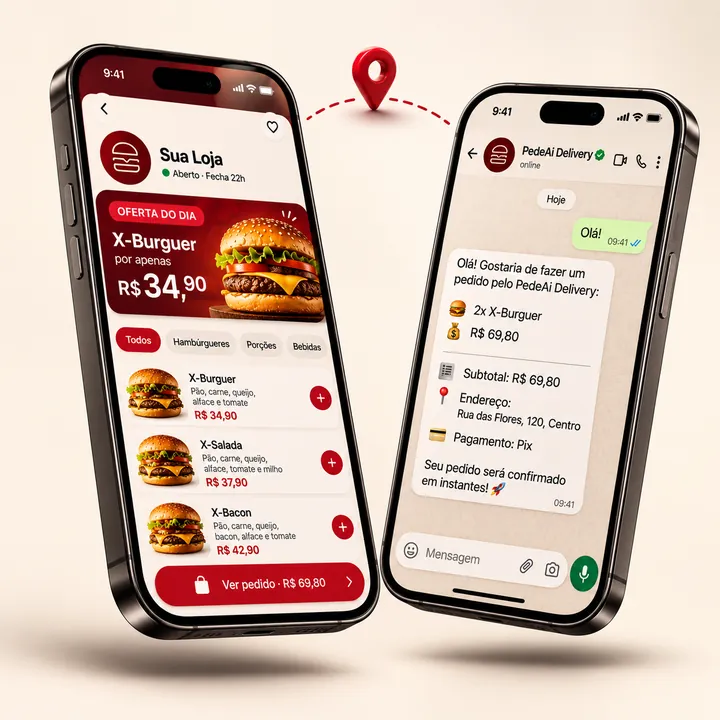
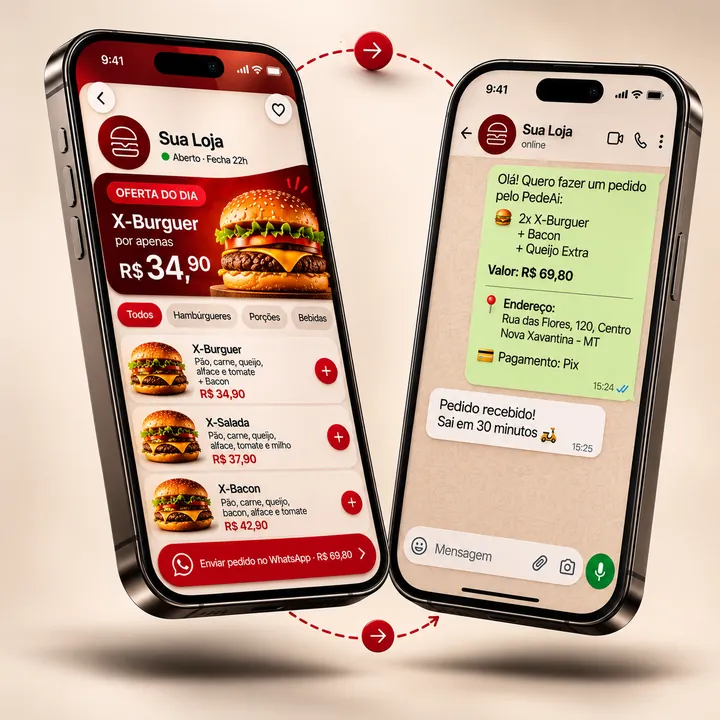
Prévia: imagem nova do Como funciona (pedido chegando no WhatsApp da loja)
Claude-Session: https://claude.ai/code/session_01S7mCyHDiPhsMCxKr9QvAB6

diff --git a/planos/index.html b/planos/index.html
@@ -298,8 +298,8 @@ body.has-offerbar .wa-float.lift{bottom:calc(84px + env(safe-area-inset-bottom))
 
   <section class="how rv" style="--i:6" aria-labelledby="howTitle">
     <figure class="how-fig">
-      <img src="como-funciona-720.webp" srcset="como-funciona-720.webp 720w, como-funciona.webp 1254w" sizes="(max-width:760px) 92vw, 520px" width="1254" height="1254" loading="lazy" decoding="async" alt="Dois celulares: à esquerda, a página de uma loja no PedeAi com a oferta do dia e o cardápio; à direita, o pedido chegando pronto no WhatsApp.">
-      <figcaption>À esquerda, a página da sua loja no PedeAi, com a oferta do dia em destaque. À direita, o pedido chegando pronto no WhatsApp.</figcaption>
+      <img src="como-funciona-720.webp?v=2" srcset="como-funciona-720.webp?v=2 720w, como-funciona.webp?v=2 1254w" sizes="(max-width:760px) 92vw, 520px" width="1254" height="1254" loading="lazy" decoding="async" alt="Dois celulares: à esquerda, a página de uma loja no PedeAi com a oferta do dia e o cardápio; à direita, o pedido chegando pronto no WhatsApp da loja.">
+      <figcaption>À esquerda, a página da sua loja no PedeAi, com a oferta do dia em destaque. À direita, o pedido chegando pronto no seu WhatsApp.</figcaption>
     </figure>
     <div class="how-copy">
       <p class="eyebrow">Como funciona</p>
